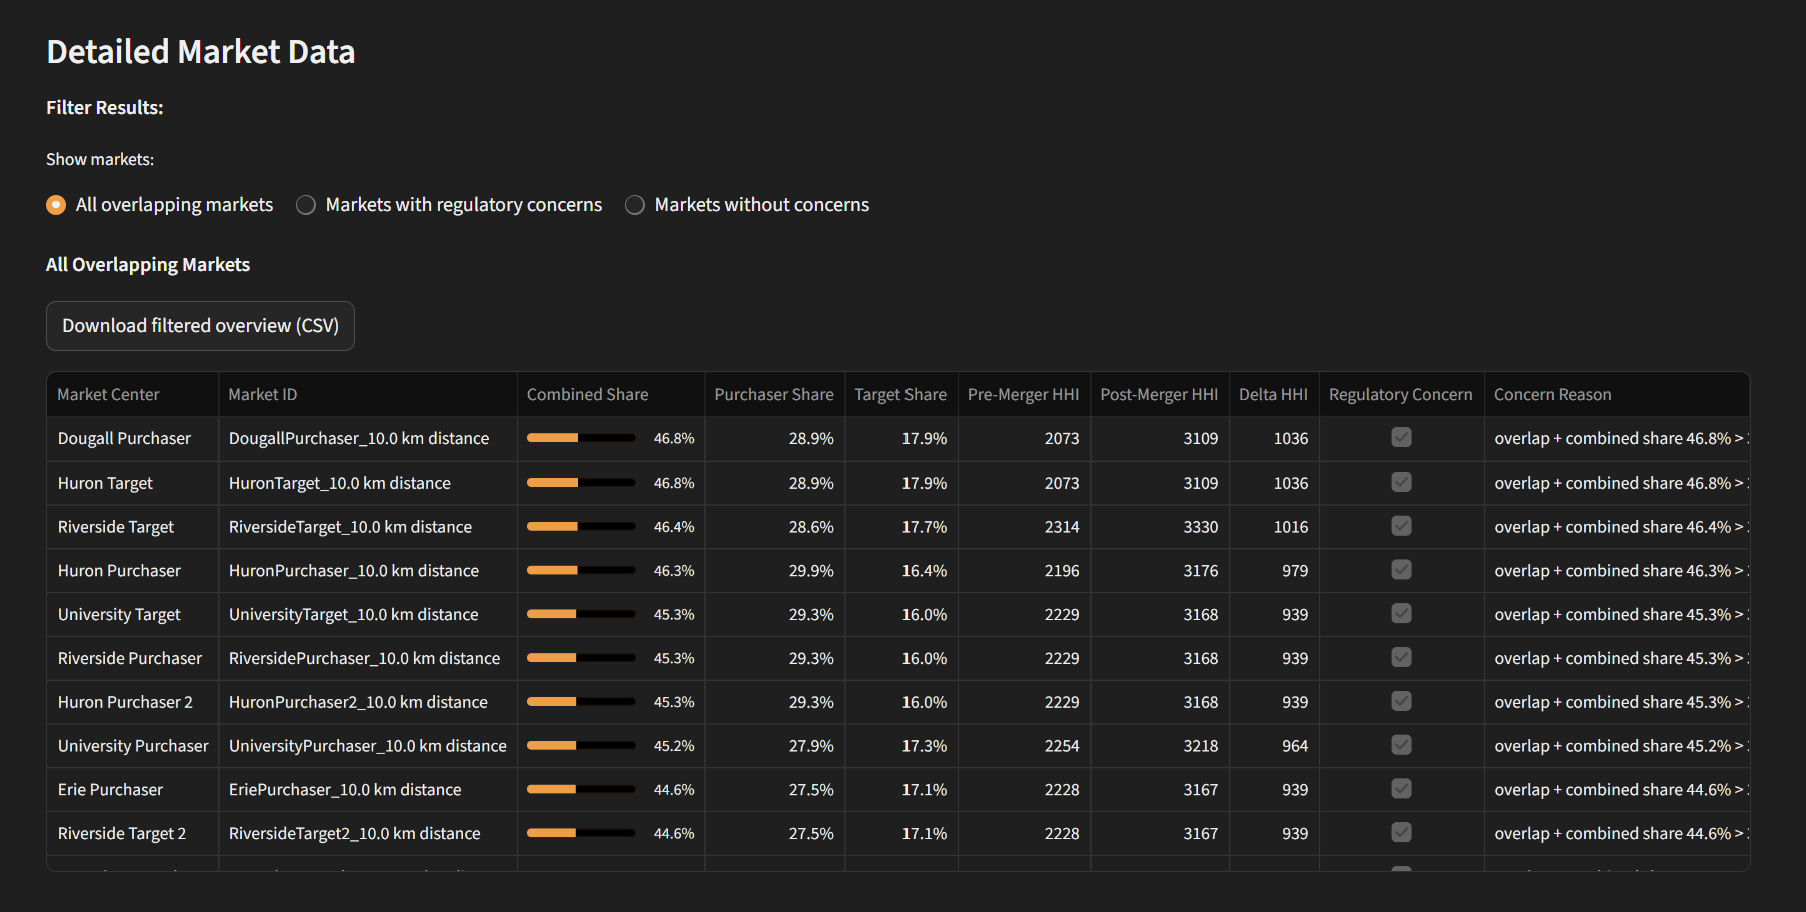
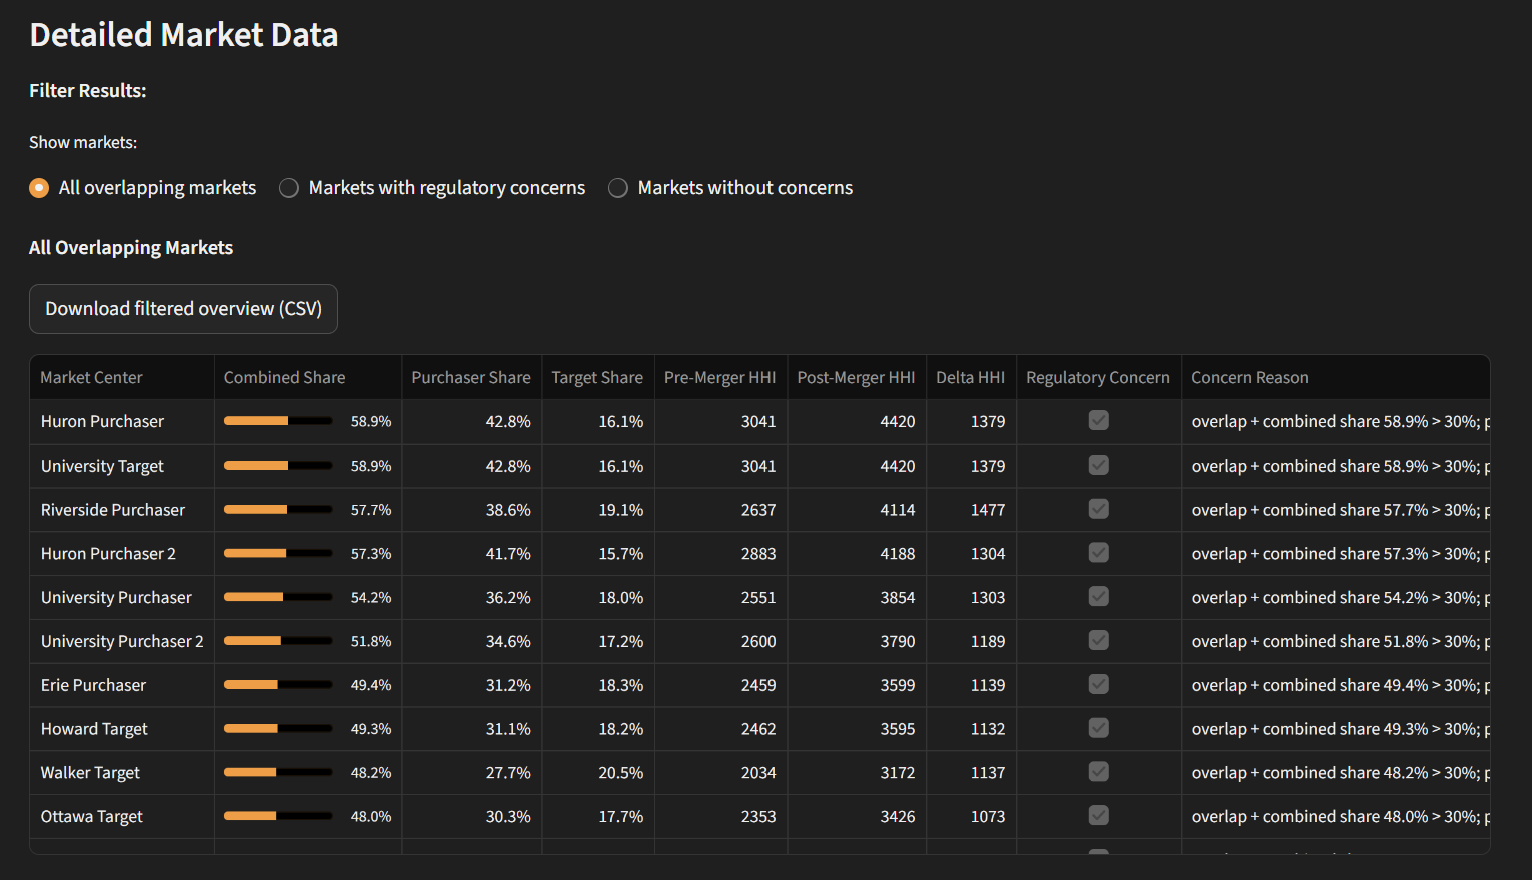
revised user guide

diff --git a/public/user-guide-content/tab2-overview.md b/public/user-guide-content/tab2-overview.md
@@ -18,12 +18,13 @@ The Market Overview follows this critical progression:
 
 ## Relevant Geographic Market
 
-Tab 2 allows the user to investigate the degree of party competitive overlap, and estimate competitive metrics, under two geographic market definition methods: 
+Tab 2 allows the user to investigate the degree of party competitive overlap, and estimate competitive metrics, under three geographic market definition methods: 
 
 1. **Distance Radius**: Fixed radius circles (e.g., 5km, 10km)
 2. **Travel Time Isochrone**: Areas reachable within a certain drive time (e.g., 15 minutes)
+3. **Census Boundaries**: All CMAs, CAs, and CBDs from the most recent census.
 
-Both methods create geographic markets around each location in the data (more advanced methods of market definition are available in Tab 3):
+Methods 1 and 2 create geographic markets around each location in the data, and method 3 analyzes all census boundaries where the parties both have a presence (more advanced methods of market definition are available in Tab 3):
 
 # Step 1: Configuring Your Analysis
 
@@ -41,6 +42,11 @@ Both methods create geographic markets around each location in the data (more ad
 - Realistic drive-time boundaries
 - Accounts for roads, traffic patterns, and barriers
 - More accurate for suburban/rural areas
+
+**Census Boundaries**:
+- Searches all census boundaries (CMA, CA and CSD) for overlap between the parties
+- Full search takes ~40 seconds per ten locations
+- Users can limit searches to specific census boundary catgegories to increase search efficiency 
 
 ![Configure market definition for multimarket overview](/user-guide-content/tab2-config.png)
 

diff --git a/public/user-guide-content/tab4-divestiture.md b/public/user-guide-content/tab4-divestiture.md
@@ -20,8 +20,10 @@ A divestiture is the sale of specific business assets (in this case, store locat
 ### Step 1: Select Problematic Markets
 
 The system automatically identifies markets requiring remedies based on markets exceeding threshold from Tab 2 analysis:
+ - Tab 2 analysis based on either: distance, drive-time, or census boundary
  - **Select** the analysis from the dropdown menu
-
+ - The remedy solver will identify the divestiture that eliminates competition concerns according to the market definition selected in the dropdown menu
+ 
 ### Step 2: Set Divestiture Constraints
 
 #### Market share and HHI thresholds

diff --git a/public/user-guide-content/tab5-export.md b/public/user-guide-content/tab5-export.md
@@ -73,6 +73,8 @@ After selecting the content to be included in the report:
 
 ![Name, generate and download excel report](/user-guide-content/tab5-download.png)
 
+Note: Methodological Appendix is only available to support competition authority filings on paid engagements.
+
 ### Session Management
 
 Use the System Management section to clear existing analysis:
